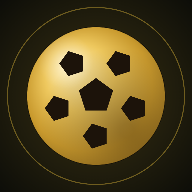
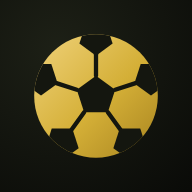
Logótipo novo: bola dourada plana no ícone da app, arranque, topo da página e pré-visualização do link
Claude-Session: https://claude.ai/code/session_01JC4reWXVwscuRku1TtANPb

diff --git a/index.html b/index.html
@@ -9,7 +9,8 @@
     <meta name="apple-mobile-web-app-title" content="Hoje Há Jogo" />
     <link rel="icon" type="image/png" sizes="192x192" href="/icon-192.png" />
     <link rel="icon" type="image/png" sizes="512x512" href="/icon-512.png" />
-    <link rel="apple-touch-icon" href="/icon-192.png" />
+    <link rel="icon" type="image/svg+xml" href="/icon.svg" />
+    <link rel="apple-touch-icon" href="/apple-touch-icon.png" />
     <link rel="preconnect" href="https://fonts.googleapis.com" />
     <link rel="preconnect" href="https://fonts.gstatic.com" crossorigin />
     <link href="https://fonts.googleapis.com/css2?family=Bebas+Neue&display=swap" rel="stylesheet" />
@@ -47,7 +48,7 @@
     <meta property="og:image" content="https://hojehajogo.pt/og.png" />
     <meta property="og:image:width" content="1200" />
     <meta property="og:image:height" content="630" />
-    <meta property="og:image:alt" content="Hoje Há Jogo — o mealheiro do grupo, quem pagou e quem deve." />
+    <meta property="og:image:alt" content="Hoje Há Jogo — organiza o futebol com os teus amigos." />
     <meta name="twitter:card" content="summary_large_image" />
     <meta name="twitter:title" content="Organiza o futebol com os teus amigos" />
     <meta name="twitter:description" content="Sem grupos intermináveis no WhatsApp. Cria o grupo, convida a malta e a app trata das confirmações por ti. Grátis." />
@@ -95,6 +96,7 @@
   </head>
   <body>
     <div id="splash">
+      <img src="/icon.svg" alt="" width="84" height="84" style="margin-bottom:14px" />
       <div id="splash-hoje">HOJE HÁ</div>
       <div id="splash-jogo">JOGO</div>
     </div>

diff --git a/src/App.jsx b/src/App.jsx
@@ -2711,7 +2711,7 @@ function LandingView({setView}) {
 
       <div style={{position:"relative",zIndex:1}}>
         <div style={{padding:"16px 20px"}}>
-          <div style={{fontFamily:"'Bebas Neue',cursive",fontSize:18,letterSpacing:3,color:"white"}}>HOJE HÁ <span style={{color:"#d4af37",fontWeight:400}}>JOGO</span></div>
+          <div style={{display:"flex",alignItems:"center",gap:8}}><img src="/icon.svg" alt="" width="24" height="24"/><div style={{fontFamily:"'Bebas Neue',cursive",fontSize:18,letterSpacing:3,color:"white"}}>HOJE HÁ <span style={{color:"#d4af37",fontWeight:400}}>JOGO</span></div></div>
         </div>
 
         {/* Hero
